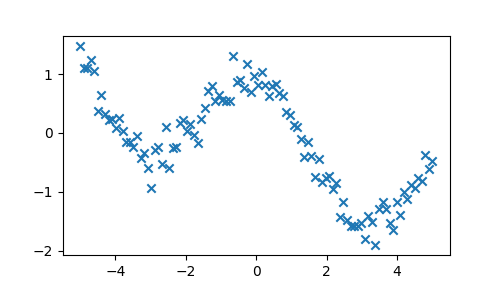
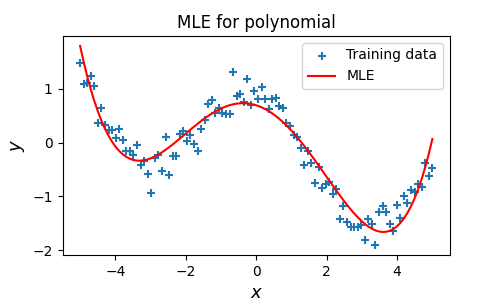
compute features and get predictions

diff --git a/polynomial_mle.py b/polynomial_mle.py
@@ -16,9 +16,24 @@ def generate_data() -> tuple[np.ndarray]:
     return X, Y
 
 
-def plot_data(X: np.ndarray, Y: np.ndarray) -> None:
+def compute_parameters_and_predict(X: np.ndarray, Y: np.ndarray) -> np.ndarray:
+    # computes the params using MLE
+    # θ = (ΦᵀΦ)-¹Φᵀy
+    phi_x = np.array([[1, x, x**2, x**3, x**4] for x in X])
+    phi_x_transpose = np.transpose(phi_x)
+    theta = np.dot(np.linalg.inv(np.dot(phi_x_transpose, phi_x)), np.dot(phi_x_transpose, Y))
+    prediction = np.dot(phi_x, theta)
+    return prediction
+
+
+def plot_data(X: np.ndarray, Y: np.ndarray, prediction: np.ndarray) -> None:
     fig = plt.figure(figsize=(5, 3))
-    plt.scatter(X, Y, marker="x")
+    plt.scatter(X, Y, marker="+", label="Training data")
+    plt.plot(X, prediction, label="MLE", color="red")
+    plt.xlabel("$x$", fontsize=13)
+    plt.ylabel("$y$", fontsize=13)
+    plt.title("MLE for polynomial")
+    plt.legend(loc=1)
     fig.subplots_adjust(bottom=0.15)
     plt.savefig("polynomial_mle.png")
     plt.show()
@@ -26,4 +41,5 @@ def plot_data(X: np.ndarray, Y: np.ndarray) -> None:
 
 if __name__ == "__main__":
     X, Y = generate_data()
-    plot_data(X, Y)
+    prediction = compute_parameters_and_predict(X, Y)
+    plot_data(X, Y, prediction)
